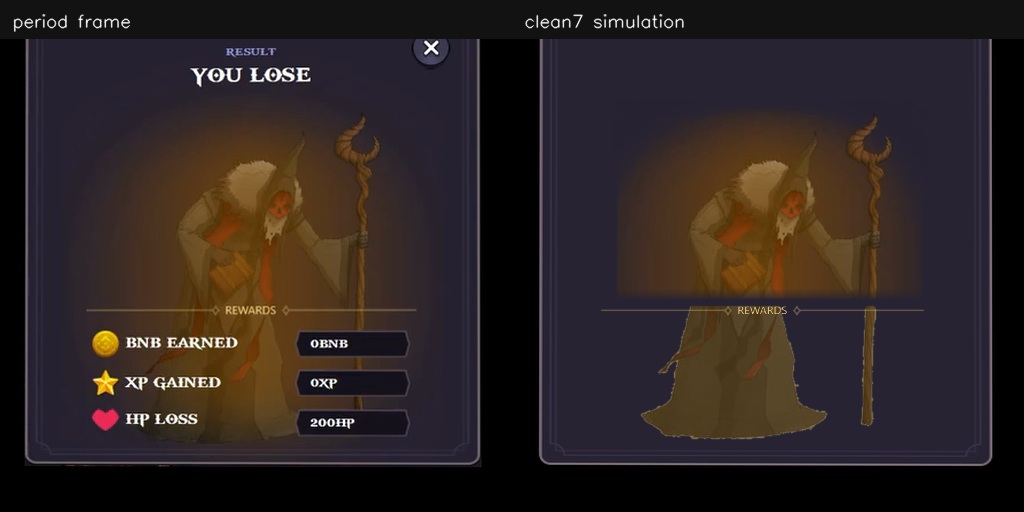
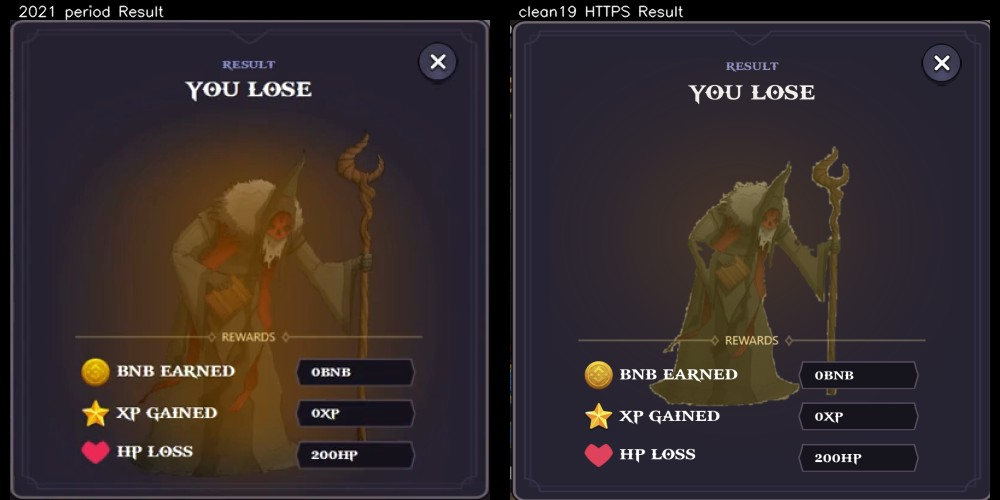
Finalize clean Lose Result art

diff --git a/research/proofs/result-art-cleanup-20260904/PROOF.md b/research/proofs/result-art-cleanup-20260904/PROOF.md
@@ -90,25 +90,27 @@ The next derivative (`084806d7...`) removed the rectangular seam, but real-brows
 
 Preview commit `7c7789e` then passed My Heroes and Win RESULT, but the real 500×500 Lose `<img>` still exposed a residual baked modal/crop band at the old y~300 join. CDP measured the Result art at CSS rect `(650,239,500,500)` and the separately rendered reward separator at `(684.45,578.37,431.11,20)`, placing the real separator near source-image y~347 rather than over that old join. `read_image` therefore rejected SHA-256 `1ef7f840...`; those bytes are preserved at `archive/pre-result-browser-crop-fix-20260904/You lose.00f95b2b.png`.
 
-The current reconstruction removes all three browser-observed failure modes without inventing character geometry:
+Commit `1132eb0` then promoted hash `9f54476d...` and again passed My Heroes and Win on clean Preview `https://bnbheroes-revival-9uetl1d5o-phu-tans-projects.vercel.app`, but the real forced-Lose screenshot still showed a broad rectangular glow/alpha field ending across the Mage. `read_image` rejected `research/browser-regression/2026-09-04-preview-1132eb0-result-lose.png`. Those bytes are preserved at `archive/pre-result-browser-alpha-fix-20260904/You lose.00f95b2b.png`.
 
-1. visible upper Mage color remains aligned 2021 Result pixels;
-2. structural character alpha comes from the independently matched first-party Mage, constrained to mapped Mage/staff geometry and filtered for **vertical continuity**, which rejects the thin horizontal rules in the source sheet;
-3. orange glow alpha comes only from the warm-color residual in period Result pixels and is radially feathered, so modal/background colors cannot survive as an opaque rectangle;
-4. lower Mage pixels remain first-party period art with the established color fit;
-5. the former crop join receives only a narrow **RGB vertical interpolation inside already-proven opaque Mage/staff support**. No new silhouette or character geometry is drawn.
+The final reconstruction removes all four browser-observed failure modes without inventing character geometry:
 
-The current pre-HTTPS candidate is locally preserved as `research/read-image-audit-20260904/result-clean-candidates/final/clean17/lose-clean17.png` with neutral-modal simulation `clean17/lose-clean17-on-purple.png`. Final proof remains contingent on the fresh HTTPS Preview gate; the production alias must not be promoted until that browser screenshot is accepted.
+1. the **entire Mage + staff RGB** now comes from the first-party `Level 2 Skull Enemies.jpg`, not from a rectangular period-frame crop;
+2. SIFT against the prior target geometry yields a simple source→Result partial-affine fit (21/34 RANSAC inliers, scale ~0.8663), and its warped silhouette overlaps the already-validated lower-Mage support at IoU ~0.9385;
+3. source-sheet background is estimated row-by-row before masking, so both the light sheet background and its dark horizontal rule are removed before the Mage is warped; connected-component and vertical-continuity filtering reject residual sheet rules;
+4. the first-party Mage RGB is color-fit only from trusted visible Mage pixels in the 2021 Result view, keeping the period orange cast without carrying any modal/background pixels;
+5. orange glow is a **smooth elliptical Gaussian alpha field** behind the independently mapped Mage. It has no rectangular/crop boundary and introduces no character geometry.
+
+The selected final candidate is locally preserved as `research/read-image-audit-20260904/result-clean-candidates/final/clean19/lose-clean19-c88-g44.png`. Before formal commit, the exact candidate bytes were deployed to temporary HTTPS Preview `https://bnbheroes-revival-hx2arik4p-phu-tans-projects.vercel.app`; a deterministic forced loss (`Math.random=()=>0` in the local preservation engine path) produced `research/browser-regression/2026-09-04-preview-clean19-result-lose.png`, and `read_image` accepted it with no crop/rectangle band. The committed comparison `evidence/lose-runtime-vs-period.jpg` places that accepted HTTPS Result beside the surviving 2021 Result.
 
 Corrected runtime:
 
 - `static/media/You lose.00f95b2b.png`
[2 lines of base64/hex data omitted]
 - provenance: **RECONSTRUCTED_FROM_PERIOD_PIXELS**, not original bytes.
 
 ## Regression boundary
 
-The preservation verifier locks the current Result hashes and all three browser-rejected Lose intermediates in archive directories. A future edit must not silently re-promote any rejected derivative.
+The preservation verifier locks the current Result hashes and all four browser-rejected Lose intermediates in archive directories. A future edit must not silently re-promote any rejected derivative.
 
 Machine-readable metrics and hashes are in `PROOF.json`.
 

diff --git a/AI_IDE_HANDOFF.md b/AI_IDE_HANDOFF.md
@@ -1,8 +1,13 @@
-### 2026-09-04 HTTPS Lose-art crop/alpha correction — newest safety checkpoint
+### 2026-09-04 clean19 Lose finalization — newest safety checkpoint
[2 lines of base64/hex data omitted]
+- Before formal commit, those exact bytes were deployed to temporary HTTPS Preview `https://bnbheroes-revival-hx2arik4p-phu-tans-projects.vercel.app`. Deterministic forced Lose (`Math.random=()=>0` for the engine's `seed+chance>1000` rule) produced `research/browser-regression/2026-09-04-preview-clean19-result-lose.png`; `read_image` **PASSED** with no rectangular crop/alpha artifact. Compact proof comparison is refreshed at `research/proofs/result-art-cleanup-20260904/evidence/lose-runtime-vs-period.jpg`.
+- Immediate continuation: run `npm run forensics:all`; if PASS, curated commit/push only runtime/proof/verifier/HANDOFF/evidence/rejected archive; deploy a **clean detached-worktree Preview from that commit**; repeat My Heroes + forced Win + forced Lose/read_image. **Only if all three PASS**, promote that exact tested Vercel deployment to `bnbheroes-revival.vercel.app`, smoke Production, then append final Production certification to HANDOFF/task ledger and push a docs-only closeout.
+
+### 2026-09-04 HTTPS Lose-art crop/alpha correction — previous checkpoint
[1 lines of base64/hex data omitted]
 - CDP geometry on that real modal measured the Lose art at CSS `(650,239,500,500)` and the reward-separator image at `(684.45,578.37,431.11,20)`, placing the actual separator near source y~347. Therefore the old y~300 join could not legitimately rely on DOM occlusion. Rejected `1ef7f840...` bytes are archived at `archive/pre-result-browser-crop-fix-20260904/You lose.00f95b2b.png`.
[1 lines of base64/hex data omitted]
-- Immediate continuation: run `npm run forensics:all`; if PASS, curated commit/push only runtime/proof/verifier/HANDOFF/rejected archive; deploy a clean detached-worktree Preview; repeat My Heroes + Win + forced Lose browser/read_image. **Only if all three PASS**, promote that exact tested Vercel deployment to `bnbheroes-revival.vercel.app`, smoke Production, then append the final production certification and push a docs-only closeout.
[1 lines of base64/hex data omitted]
 
 ### 2026-09-04 read_image Lose-art finalization — previous checkpoint
[1 lines of base64/hex data omitted]

diff --git a/research/media_hunt/final-promotions/PROVENANCE.md b/research/media_hunt/final-promotions/PROVENANCE.md
@@ -47,7 +47,8 @@ This directory records the last six hashed media files that were unavailable as 
[3 lines of base64/hex data omitted]
-- Current Lose reconstruction keeps period Result color for the visible upper Mage and derives glow only from warm period pixels. Character alpha comes from the independently matched first-party Mage, constrained to mapped Mage/staff geometry and filtered by vertical continuity so horizontal source-sheet rules cannot survive. The old crop join is repaired only by RGB interpolation inside proven character/staff support; no new silhouette is drawn. Provenance remains reconstruction from period/first-party pixels, not original hashed bytes.
[1 lines of base64/hex data omitted]
+- Final Lose reconstruction uses the **entire first-party Level-2 Skull Mage + staff** as one continuous layer. SIFT/RANSAC gives a simple source→Result affine geometry (21/34 inliers; warped silhouette IoU ~0.939 against the already-validated lower support). Sheet background and its horizontal rule are removed row-wise before masking; RGB is color-fit only from trusted visible period Mage pixels. The orange glow is a smooth Gaussian alpha field and contains no captured modal/background rectangle. The exact candidate hash `0e2369ac...` passed a deterministic forced-Lose `read_image` gate on temporary HTTPS Preview `bnbheroes-revival-hx2arik4p-...` before formal commit. Provenance remains reconstruction from first-party/period evidence, not original hashed bytes.
 - See `research/proofs/result-art-cleanup-20260904/PROOF.md`.
 
 ## `fight.42bbd04e.png` — RECONSTRUCTED_FROM_PERIOD_PIXELS
@@ -65,7 +66,7 @@ This directory records the last six hashed media files that were unavailable as 
[6 lines of base64/hex data omitted]
 
 All previous runtime placeholders are preserved under `backups/`.
